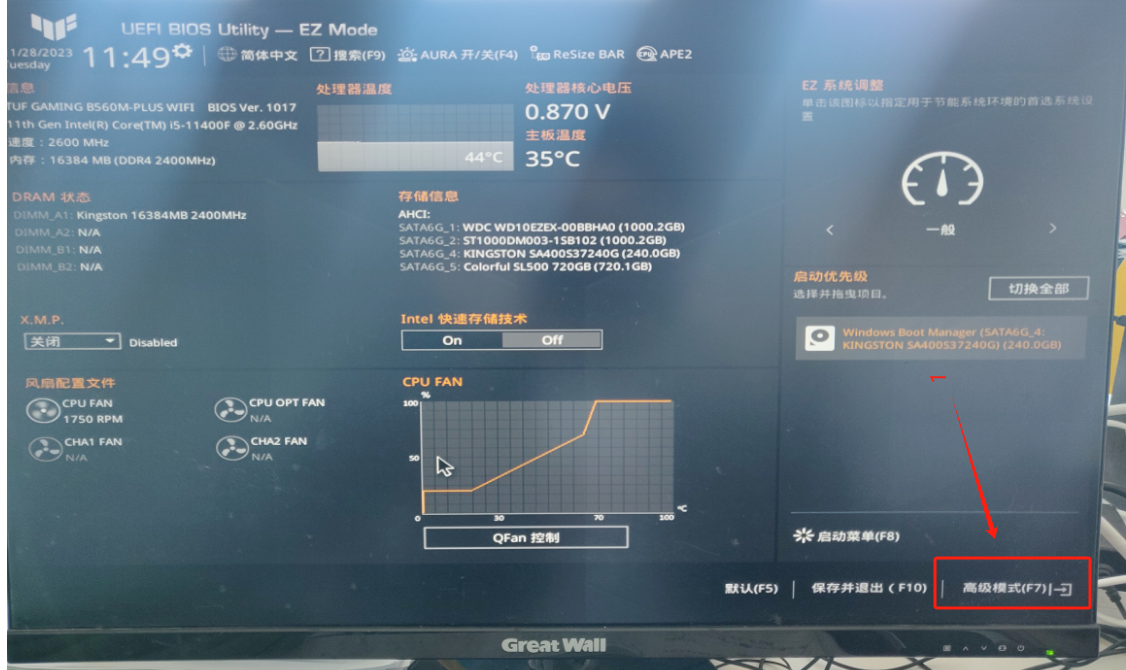
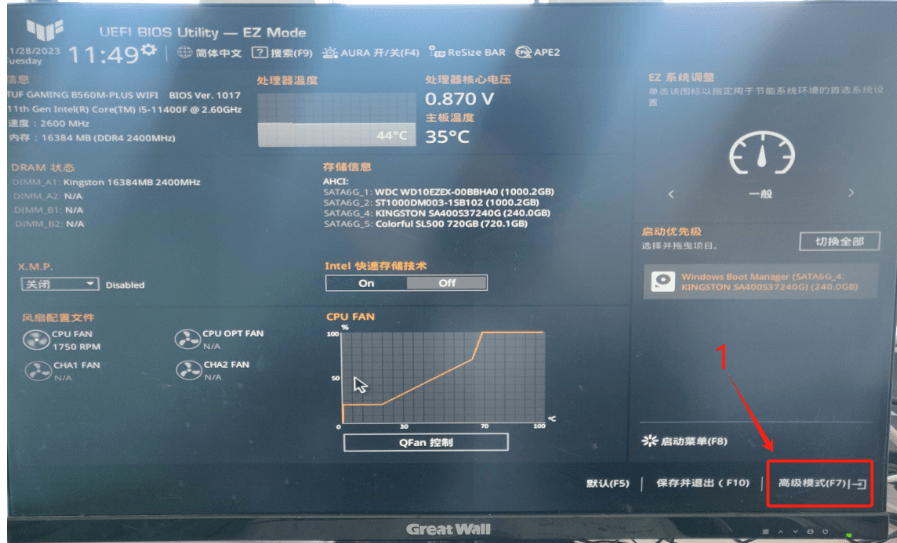
Modify the md file

diff --git a/Docker_install.md b/Docker_install.md
@@ -1,23 +1,33 @@
-# How to install docker and docker-compose
+# Windows
 
-## Windows
+## Install docker
+1. The local motherboard virtualization options need to be adjusted<br>
+  First restart the computer, and keep pressing the three keys "F1" and "F2" and "DEL" when restarting the computer to enter the Bios (because most motherboards are one of these three keys, so press together, and note that the laptop is to press the "ESC" key)<br>
+  ![bios.png](user_manual/en/img/bios1.png)
+  ![bios.png](user_manual/en/img/bios2.png)
+  ![bios.png](user_manual/en/img/bios3.png)
 
-- You are in WSL system,you need to adjust the local motherboard virtualization options
-Press the del key to enter Bios, go to the advanced options "Intel (VMX) Virtualization Technology" or "Intel (VMX) Virtualization Technology" or "AMD-V", and set "enable on", then restart the computer (or like this picture).
-- ![bios.png](user_manual/cn/img/bios.png)
 
-- You can install WSL through https://learn.microsoft.com/en-us/windows/wsl/install or through the Microsoft Store, or by running the following command in the administrator command line:
+2. You can use https://learn.microsoft.com/en-us/windows/wsl/install or for installation WSL in Microsoft store
+  Or install it through the administrator command line as shown below:
+  ![cmd.jpg](user_manual/en/img/cmd.jpg)
+
+- Go to the command window and run the following command
 ```
-   WSL --install
+  WSL --install
 ```
 
-- ![cmd.jpg](user_manual/cn/img/cmd.jpg)
 
-
-- Open the administrator command line and log into WSL.<br>
-Run the command``` wsl``` or ```wsl -u [username]```  username is the username you installed before.
-- After logging in, you are now in the WSL system.
-- 'docker' install command :
+- If the following prompts appear<br>
+ ![docker_err.jpg](user_manual/cn/img/docker_err.jpg)
+- solution
+```
+ Run: wsl --list --online to see which versions can be installed
+ Then run: wsl --install -d Ubuntu-20.04 # where Ubuntu-20.04 is the version number
+```
+3. Open the administrator command line and log in to WSL
+4. Run the command ```wsl``` or ```wsl -u [username]``` username is the username you installed earlier
+5. After logging in, we started to install docker (each action is run one command in turn, the same below).
 ```
    sudo apt update
    sudo apt install apt-transport-https ca-certificates curl software-properties-common
@@ -28,52 +38,118 @@ Run the command``` wsl``` or ```wsl -u [username]```  username is the username y
    sudo service docker start
    sudo service docker status
 ```
-- If you encounter the error```Docker is not running```
-- Slove the error by the command:
+6. After installing docker, grant permissions to the current logged-in user
+```sudo usermod -aG docker $USER```
+7. Start the docker command```sudo service docker start```
+8. If ```service docker status``` is "active (running)" or "Docker is running", it is normal
+9. If indicated```Docker is not running```
+- Solution, run the command
 ```
 sudo update-alternatives --set iptables /usr/sbin/iptables-legacy
 sudo update-alternatives --set ip6tables /usr/sbin/ip6tables-legacy
 ```
-- Install docker-compose
+10. Install docker-compose
 ```
 sudo apt-get install docker-compose
 sudo rm /usr/local/bin/docker-compose
 sudo ln -s /usr/bin/docker-compose /usr/local/bin/docker-compose
 ```
-- After installing docker, give permissions to the current logged-in user. ```sudo usermod -aG docker $USER```
-- Start the docker command ```sudo service docker start```
-- Check the docker running status command``` service docker status``` It should be "active (running)"
-- Install network management commands```sudo apt install net-tools```
-- Download the Holmes code by the command : ```git clone git@github.com:DeepThought-AI/Holmes.git```
-- Run the command ```cd Holmes```  to the corresponding folder and run install file ```sudo ./install.sh```
+11. Install network management Run: ```sudo apt install net-tools```
+12. Once docker is installed, you don't need to install it again
+## Configuration Holmes
+13. Run the command ```service docker status``` to confirm that docker is running "active (running)" <br>
+14. Obtain the local Intranet IP address and record it, usually 192.168.1.xxx,you can use it later in the installation path As  shown below:<br>
+![ip.png](user_manual/en/img/ip.png)
 
-## Ubuntu
-- Run the command as follows:
+15.Then, there are two ways to install Holmes. Choose one of the following
+
+- （1）Download the package directly (recommended)
+- Run the command ```pwd``` from the WSL command line and you will see your current folder address such as ```/mnt/c/Windows/system32```
+- Click”<a href="https://github.com/DeepThought-AI/Holmes" target='_blank'>here</a>“Download our code via the web page. As illustrated in following figure
+- ![download.png](user_manual/cn/img/download.png)
+- The extracted folder "Holmes" is moved to C:/Windows/system32 (That is, the folder address seen above,c represents C disk)
+- Go back to the WSL command line and run the command ```cd Holmes ``` to enter the project folder
+- Change permission ```sudo chmod +x ./Install.sh```
+- Run the command ```sudo ./Install_cn.sh ``` to start the installation.After the installation, there will be a URL prompt, which can be accessed directly by the browser
+
+- （2）Download the code by command (local github public key required)
+- Download our code，```git clone git@github.com:DeepThought-AI/Holmes.git```
+- Appear ```Are you sure you want to continue connecting (yes/no/[fingerprint])? ```
+- Enter ```yes``` and press Enter
+- Go to project folder ```cd Holmes ```
+- Change permission ```sudo chmod +x ./Install.sh```
+- Run the command ```sudo ./Install_cn.sh ``` to start the installation<br>
+16. After the installation, there will be a URL prompt, which can be accessed directly by the browser<br>
+（Note * Closing the command window will not allow you to access urls belonging to Holmes
+   Using Holmes again, open the “Command Prompt” window "Run as administrator"
+  ```
+   1.Run the “wsl” command
+   2.Run the “cd Holmes” command
+   3.Run the "sudo docker-compose start" command
+  ```
+   You can go to the browser to open your own Holmes URL [URL is http:// 'Intranet IP address of this machine' :8338]
+
+
+# Ubuntu
+## Install docker
+1. On the system, go to the CLI and run the following commands step by step (if docker is installed, skip the first two steps)：
 ```
 sudo apt-get clean
 sudo apt-get update
 sudo apt-get install ca-certificates curl gnupg lsb-release
+sudo curl -fsSL http://mirrors.aliyun.com/docker-ce/linux/ubuntu/gpg | sudo apt-key add -
+sudo add-apt-repository "deb [arch=amd64] http://mirrors.aliyun.com/docker-ce/linux/ubuntu $(lsb_release -cs) stable"
+sudo apt-get update
 apt-get install docker-ce docker-ce-cli containerd.io
 sudo usermod -aG docker $USER
 ```
-- Need user exit and relogin
+2. You need to log out of the current account and log in again. After re-logging in, go to the CLI
 ```
 systemctl start docker
 sud apt-get -y install apt-transport-https ca-certificates curl software-properties-common
 sudo systemctl enable docker
 ```
+## Configuration Holmes
+3. Start downloading our code file
+```
+git clone git@github.com:DeepThought-AI/Holmes.git
+```
+4. Unzip it, rename it to "Holmes" and go to the directory
+```
+ cd Holmes && sudo chmod+x./Install.sh
+ . Install_cn.sh
+```
+5. Note that the preceding command runs  . Install_cn.sh
+6. After the installation, there will be a URL prompt, which can be accessed directly by the browser
 
-## Mac, Two ways to install docker
 
+# Mac
+## Install docker
+### 1. Download docker desktop (recommended)
+- From here：https://docs.docker.com/desktop/install/mac-install/
+  - Open docker desktop, click "setting" and select Docker engine
+  ```
+  {
+    "builder": {
+      "gc": {
+        "defaultKeepStorage": "20GB",
+        "enabled": true
+      }
+    },
+    "experimental": false,
+    "registry-mirrors": [
+      "https://docker.mirrors.ustc.edu.cn" # 新增国内源，建议用阿里云自定义源
+    ]
+  }
+  ```
+### 2.Install docker using system preferences
+- Installation command：```brew install docker```
+- Run command：```brew services start docker```
+- Check command：```brew services list |grep docker```
 
-1. Download docker desktop  (Recommendation)
-- from here: https://docs.docker.com/desktop/install/mac-install/
-- open docker desktop and click on "settings" and then click on "resources" and then click on "advanced" and then click on "docker engine" and then click on "settings" and then click on "advanced" and then click on "daemon" and then click on "tls" and then click on "enable tls verification" and save.
+## Configuration Holmes
+- Download code```git clone git@github.com:DeepThought-AI/Holmes.git```
+- Run command ```cd Holmes ```
+- Change permission ```sudo chmod+x ./Install.sh```
+- Run the command ```sudo ./Install_cn.sh ``` to start the installation. After the installation, there will be a URL prompt, which can be accessed directly by the browser
 
-2. Use system preferences to install docker
-- Install command:brew install docker
-- Run command:brew services start docker
-- Check command:brew services list |grep docker
-
-###
-Above, the installation is complete. Run docker --version && docker-compose --version to see the Docker version, indicating that Docker has been installed correctly. If you have any additional questions, please refer to: https://docs.docker.com/desktop/

diff --git a/README.md b/README.md
@@ -10,7 +10,7 @@ Holmes is an AI-native data analysis platform. Holmes leverages the power of lar
 <div align="center">
 
   Languages： English [中文](README_CN.md)<br>
-Developer：dev@deep-thought.io  Business：hi@deep-thought.io
+Developer：dev@deep-thought.io  Business：hi@deep-thought.io https://twitter.com/DeepThoughAI
 
   <div style="display: flex; align-items: center;">
 
@@ -51,16 +51,7 @@ The database connections supported by Holmes are:
 
 ## 📦 Docker build
 
-- The local environment needs to have docker and docker-compose. <br>
-- [Installl docker](Docker_install.md)
-- Download project files by git:``` git clone https://github.com/DeepThought-AI/Holmes.git ``` <br>
-  or drirect download zip file, unzip it. <br>
-  ![download.png](user_manual/cn/img/download.png)
-
-- Enter the project directory:``` cd Holmes ```
-- Just run``` ./Install.sh ```directly
-- Default port: 8338 8339
-- Web access: http://ip:8338
+Follow the steps corresponding to your system in "[Install with Docker](Docker_install.md)" , and finally obtain the Holmes URL, which can be accessed through a browser
 
 
 ## Ubuntu build
@@ -89,6 +80,8 @@ Install directly on the ubuntu system, you need to install redis, postgresql pyt
     sudo docker-compose ps # see Holmes servie states
 ```
 
+## Contact Us
+ <img src="http://www.deep-thought.io/wechat.png" width="30%">
 
 ## 📑 Other
 - We have tested on Mac OS 12.7/13.X /14.1.1, Ubuntu 20.04/22.04, and Windows11 WSL 22.04. <br>If you have any question, please contact us at dev@deep-thought.io

diff --git a/Docker_install_CN.md b/Docker_install_CN.md
@@ -4,7 +4,8 @@
 1. 需要调整本地主板虚拟化选项<br>
   首先重启电脑，重启电脑时不断按“F1”和“F2”和“DEL”这三个键进入Bios（因为大部分主板是这三个按键的其中一个，所以一起按，另外注意笔记本是按“ESC”键）<br>
   ![bios.png](user_manual/cn/img/bios1.png)
-  ![bios.png](user_manual/cn/img/bios2.jpg)
+  ![bios.png](user_manual/cn/img/bios2.png)
+  ![bios.png](user_manual/cn/img/bios3.png)
 
 
 2. 你可以通过 https://learn.microsoft.com/en-us/windows/wsl/install 或者在微软商店进行安装 WSL
@@ -62,7 +63,7 @@ sudo ln -s /usr/bin/docker-compose /usr/local/bin/docker-compose
 
 15.然后，安装Holmes有两种方式，任选其一 如下
 
-- （1）直接下载压做包 (推荐)
+- （1）直接下载压缩包 (推荐)
 - 在WSL命令行中运行命令 : ```pwd``` 你会看到你目前的文件夹地址 比如 ```/mnt/c/Windows/system32```
 - 点击”<a href="https://github.com/DeepThought-AI/Holmes" target='_blank'>链接</a>“通过网页下载我们的代码 如下图
 - ![download.png](user_manual/cn/img/download.png)

diff --git a/README_CN.md b/README_CN.md
@@ -83,7 +83,8 @@ Holmes 支持的数据库连接有:
     sudo docker-compose stop # 停止Holmes 服务
     sudo docker-compose ps # 查看 Holmes 服务
 ```
-
+## Contact Us
+ <img src="http://www.deep-thought.io/wechat.png" width="30%">
 
 
 
